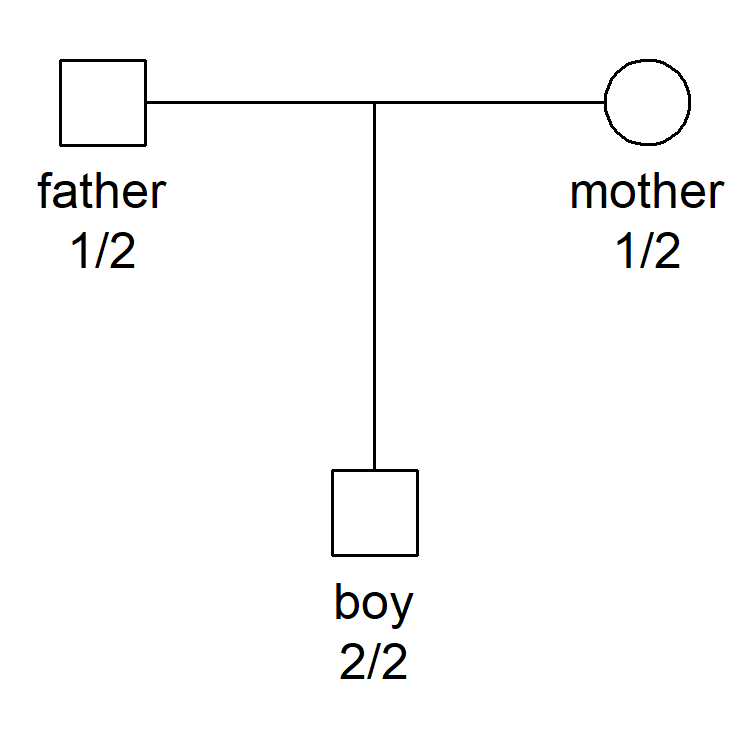
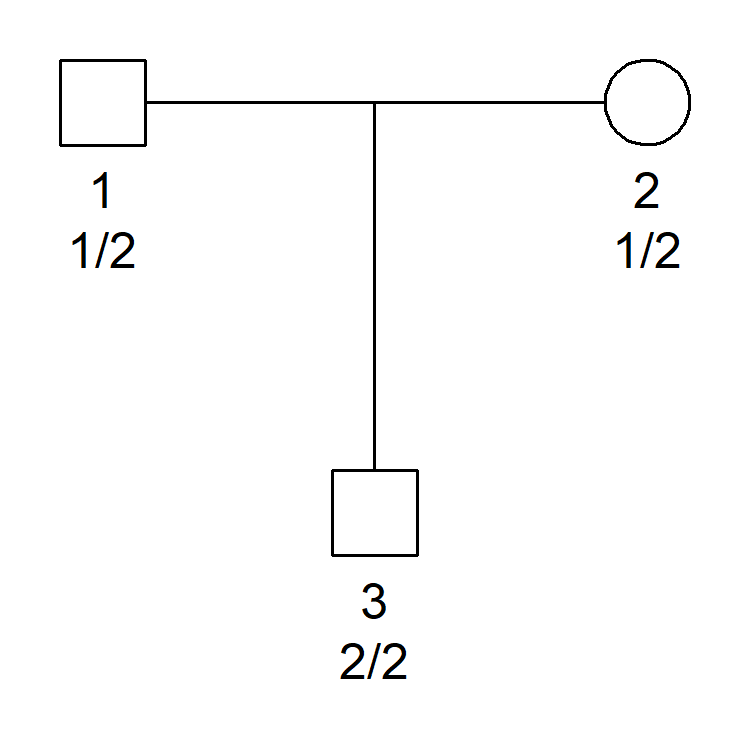
Minor README updates

Changed region(s): [[0.736, 0.2147, 0.9813, 0.276], [0.0307, 0.2147, 0.2147, 0.276], [0.4293, 0.7667, 0.552, 0.8587]]

diff --git a/README.md b/README.md
@@ -15,7 +15,7 @@ Several R packages are able to calculate pedigree likelihoods, including
 suite](https://magnusdv.github.io/pedsuite/)), **paramlink** (precursor
 to the ped suite), **Familias**, and **ElstonStewart**. Outside of R, a
 widely used program is
-[MERLIN](https://csg.sph.umich.edu/abecasis/Merlin/). The
+[**MERLIN**](https://csg.sph.umich.edu/abecasis/Merlin/). The
 **pedlikCompare** package makes it easy and fun to compare all of these
 programs, both in terms of numeric accuracy and runtime. (For MERLIN to
 be included it must be installed on your computer.)
@@ -33,9 +33,8 @@ follows:
 ``` r
 library(pedtools)
 
-x = nuclearPed(fa = "father", mo = "mother", child = "boy") |> 
-  addMarker(father = "1/2", mother = "1/2", boy = "2/2", 
-            alleles = 1:2, afreq = c(0.5, 0.5))
+x = nuclearPed() |> 
+  addMarker(geno = c("1/2", "1/2", "2/2"), afreq = c(`1` = 0.5, `2` = 0.5))
 ```
 
 Plot the pedigree to check that everything is ok.
@@ -52,11 +51,12 @@ Now let **pedlikCompare** perform its magic! The crucial function is
 ``` r
 library(pedlikCompare)
 result = compare(x)
-#> Program `pedprobr`...finished in 0.01 secs
-#> Program `paramlink`...finished in 0.01 secs
-#> Program `Familias`...finished in 0.02 secs
-#> Program `ElstonStewart`...finished in 0.01 secs
-#> Program `merlin`...finished in 0.68 secs
+#> Program `pedprobr`...finished in 0 secs
+#> Program `paramlink`...finished in 0 secs
+#> Program `Familias`...finished in 0 secs
+#> Program `ElstonStewart`...finished in 0 secs
+#> Program `merlin`...
+#> Executable not found. Use `merlinpath` to supply the path to the MERLIN folder
 #> ===> ALL PROGRAMS AGREE! <===
 ```
 
@@ -65,14 +65,13 @@ As indicated in the output, all programs agreed in this case. The
 
 ``` r
 result
-#> # A tibble: 5 × 4
-#>   program       likelihood lnlik time     
-#>   <chr>              <dbl> <dbl> <chr>    
-#> 1 pedprobr          0.0625 -2.77 0.01 secs
-#> 2 paramlink         0.0625 -2.77 0.01 secs
-#> 3 Familias          0.0625 -2.77 0.02 secs
-#> 4 ElstonStewart     0.0625 -2.77 0.01 secs
-#> 5 merlin            0.0625 -2.77 0.68 secs
+#> # A tibble: 4 × 4
+#>   program       likelihood lnlik time  
+#>   <chr>              <dbl> <dbl> <chr> 
+#> 1 pedprobr          0.0625 -2.77 0 secs
+#> 2 paramlink         0.0625 -2.77 0 secs
+#> 3 Familias          0.0625 -2.77 0 secs
+#> 4 ElstonStewart     0.0625 -2.77 0 secs
 ```
 
 In order to compare the likelihoods, `compare()` calls the function
